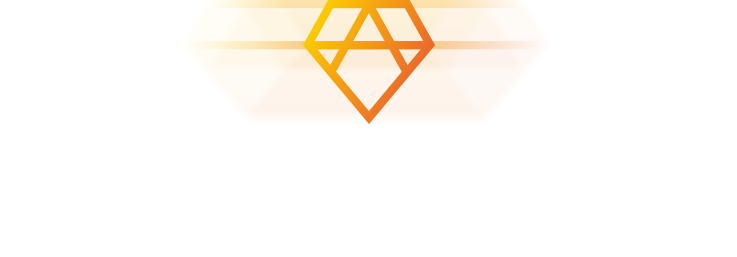
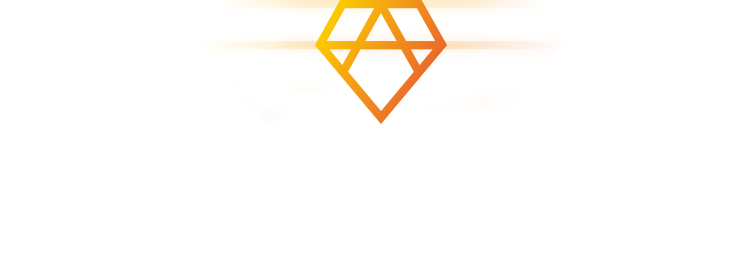
small change

Changed region(s): [[0.2809, 0.0, 0.6554, 0.4981]]

diff --git a/css/index.min.css b/css/index.min.css
@@ -511,17 +511,30 @@ nav .navContainer .navRight .downloadWhitePaperTwo {
 
 #home .aschHomeImg1 {
     position: absolute;
-    width: 736;
+    width: 736px;
     height: 100px;
     top: 32%;
     left:calc(50% - 368px);
 }
 
-
-
 #home .aschHomeImg1 img {
     width: 100%;
 }
+
+#home .aschHomeImg1 .aschHomeImgLine1{
+    display: block;
+    position: absolute;
+    width: 300px;
+    height: 100px;
+    top: -94%;
+    left:calc(50% - 150px);
+    border-bottom:8px solid;
+    border-image: linear-gradient(to right, transparent, #e18e08, transparent) 1;
+    z-index: 999;
+}
+
+
+
 
 #home .aschHomeLinks {
     position: absolute;
@@ -869,7 +882,7 @@ ul.homeLinks li:nth-child(4) i {
     left: calc(50% - 35px);
     /* border: 1px solid #00BCD4; */
     width: 100px;
-    height: 70px;
+    height: 72px;
     /* line-height: 120px; */
     /* margin: 200px auto; */
     /*background-color: red;*/
@@ -917,11 +930,13 @@ ul.homeLinks li:nth-child(4) i {
 }
 
 .showVideo:hover .imgHide {
-    transform: translate(0, 100%);
-    -webkit-transform: translate(0, 100%);
-    -moz-transform: translate(0, 100%);
-    -o-transform: translate(0, 100%);
-    -ms-transform: translate(0, 100%);
+    background: url("../images/videoPlay2.png") no-repeat center;
+    background-size: cover;
+    /*transform: translate(0, 100%);*/
+    /*-webkit-transform: translate(0, 100%);*/
+    /*-moz-transform: translate(0, 100%);*/
+    /*-o-transform: translate(0, 100%);*/
+    /*-ms-transform: translate(0, 100%);*/
 }
 
 .showVideo .imgShow {
@@ -2412,7 +2427,7 @@ ul.homeLinks li:nth-child(4) i {
 
 #scenarios .scenariosContainerCenter .scenariosContainer ul li a {
     display: block;
-    color: #567fdc;
+    color: #ffa81c;
     margin: 5px 0
 }
 

diff --git a/index.html b/index.html
@@ -81,6 +81,10 @@
     <!--暂时注释-->
     <div class="aschHomeImg1">
         <img src="images/bbb.png" alt="AschLogo">
+            <!--<span class="aschHomeImgLine1"></span>-->
+            <!--<span class="aschHomeImgLine2"></span>-->
+
+
     </div>
     <div class="aschHomeLinks">
         <a class="toGetStarted" href="javascript:;" title="该功能即将上线，敬请期待">
@@ -158,7 +162,7 @@
 
             <!--<span class="topVideo"></span>-->
             <div class="showVideo">
-                <span class="imgShow"></span>
+                <!--<span class="imgShow"></span>-->
                 <span class="imgHide"></span>
             </div>
             <span class="videoText"></span>

diff --git a/css/application.css b/css/application.css
@@ -127,7 +127,7 @@ nav .navContainer .navRight .moreThan li a {
     display: block;
     height: 100%;
     color: #000;
-    font-size: 16px;
+    font-size: 18px;
     padding-right: 20px
 }
 
@@ -433,6 +433,9 @@ nav .navContainer .navRight .downloadWhitePaperTwo {
     margin-left: 20px;
 }
 
+.applicationContainer .applicationCenter .applicationContent .applicationContentRight .applicationLinks a:hover{
+    background: linear-gradient(to bottom,#febb50,#e18e08);
+}
 .applicationContainer .applicationCenter .applicationContent .applicationContentRight .applicationLinks a {
     display: inline-block;
     width: 200px;

diff --git a/application2.html b/application2.html
@@ -97,7 +97,7 @@
 
                 <div class="applicationLinks">
                     <a href="http://www.koumei.io/ " target="_blank">Website</a>
-                    <a href="javascript:;">WhitePaper</a>
+                    <a href="http://asch-public.oss-cn-beijing.aliyuncs.com/Koumei/孔明屋%20%20Koumei%20Cottage.pdf" target="_blank">WhitePaper</a>
                 </div>
 
             </div>

diff --git a/application1.html b/application1.html
@@ -97,7 +97,7 @@
 
                 <div class="applicationLinks">
                     <a href="https://cctime.org/" target="_blank">Website</a>
-                    <a href="javascript:;">WhitePaper</a>
+                    <a href="http://cctime.oss-cn-beijing.aliyuncs.com/cctime-whitepaper.pdf" target="_blank">WhitePaper</a>
                 </div>
 
             </div>
